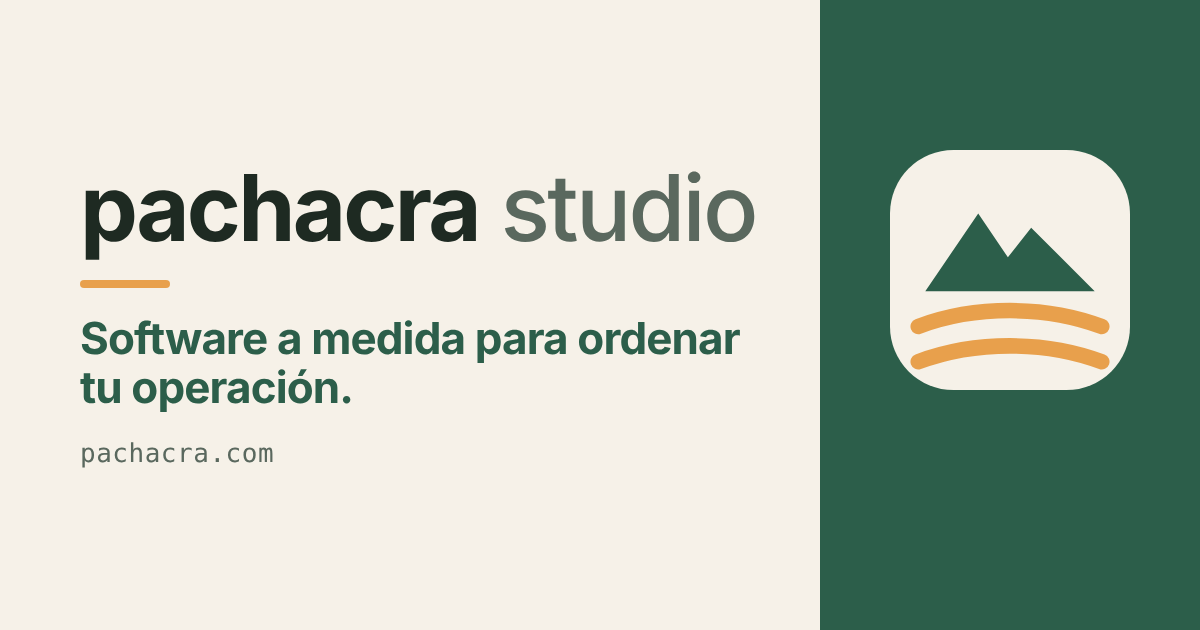
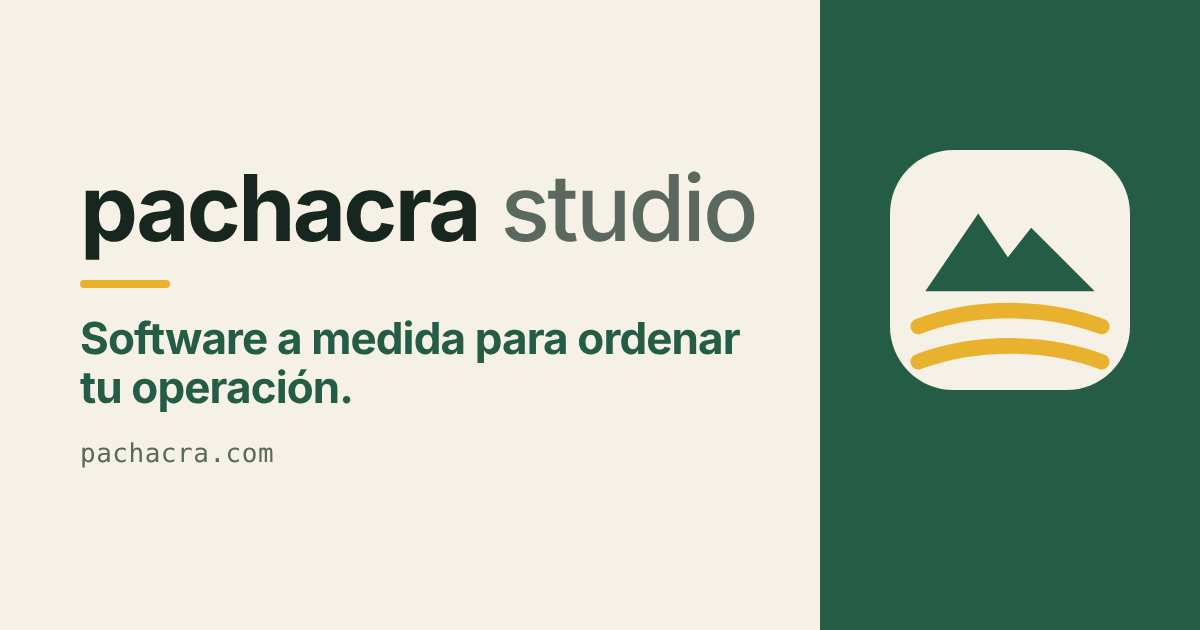
Add files via upload

Changed region(s): [[0.74, 0.4825, 0.925, 0.6032], [0.0617, 0.4222, 0.1542, 0.4825]]

diff --git a/index.html b/index.html
@@ -20,27 +20,27 @@
 <link rel="stylesheet" href="https://fonts.googleapis.com/css2?family=Bricolage+Grotesque:opsz,wght@12..96,500;12..96,700&family=Instrument+Sans:wght@400;500;600&family=IBM+Plex+Mono:wght@500&display=swap">
 <style>
 html{scroll-behavior:smooth}
-body{margin:0;background:#F6F1E8}
-a{color:#2C5E4A}a:hover{color:#1E4535}
+body{margin:0;background:#F6F1E6}
+a{color:#245C45}a:hover{color:#C23B2A}
 </style>
 </head>
 <body>
 
 
-<div style="background:#F6F1E8; color:#1E2A22; font-family:'Instrument Sans', system-ui, sans-serif; font-size:17px; line-height:1.55; width:100%">
+<div style="background:#F6F1E6; color:#17261F; font-family:'Instrument Sans', system-ui, sans-serif; font-size:17px; line-height:1.55; width:100%">
 
 <!-- NAV -->
 <header style="display:flex; flex-wrap:wrap; align-items:center; justify-content:space-between; gap:16px; width:100%; max-width:1160px; margin:0 auto; padding:20px 24px; box-sizing:border-box">
-<a href="#top" style="display:flex; align-items:center; gap:10px; text-decoration:none; color:#1E2A22">
-<svg width="34" height="34" viewBox="0 0 34 34" aria-hidden="true"><rect width="34" height="34" rx="9" fill="#2C5E4A"/><path d="M5 20 12.5 9l4.2 6.2L20 11l9 9z" fill="#F6F1E8"/><path d="M4 25c8-3 18-3 26 0M4 30c8-3 18-3 26 0" fill="none" stroke="#E8A04C" stroke-width="2.2" stroke-linecap="round"/></svg>
+<a href="#top" style="display:flex; align-items:center; gap:10px; text-decoration:none; color:#17261F">
+<svg width="34" height="34" viewBox="0 0 34 34" aria-hidden="true"><rect width="34" height="34" rx="9" fill="#245C45"/><path d="M5 20 12.5 9l4.2 6.2L20 11l9 9z" fill="#F6F1E6"/><path d="M4 25c8-3 18-3 26 0M4 30c8-3 18-3 26 0" fill="none" stroke="#E9B22E" stroke-width="2.2" stroke-linecap="round"/></svg>
 <span style="font-family:'Bricolage Grotesque', system-ui, sans-serif; font-weight:700; font-size:27px; letter-spacing:-0.02em; line-height:1">pachacra<span style="font-weight:500; color:#5A685E"> studio</span></span>
 </a>
 <nav style="display:flex; flex-wrap:wrap; align-items:center; gap:8px 24px">
-<a href="#soluciones" style="color:#1E2A22; text-decoration:none; font-weight:500; font-size:16px"><span data-k="navSol"></span></a>
-<a href="#proyectos" style="color:#1E2A22; text-decoration:none; font-weight:500; font-size:16px"><span data-k="navProj"></span></a>
-<a href="#proceso" style="color:#1E2A22; text-decoration:none; font-weight:500; font-size:16px"><span data-k="navHow"></span></a>
-<a href="#nosotros" style="color:#1E2A22; text-decoration:none; font-weight:500; font-size:16px"><span data-k="navAbout"></span></a>
-<a href="#contacto" style="color:#1E2A22; text-decoration:none; font-weight:500; font-size:16px"><span data-k="navContact"></span></a>
+<a href="#soluciones" style="color:#17261F; text-decoration:none; font-weight:500; font-size:16px"><span data-k="navSol"></span></a>
+<a href="#proyectos" style="color:#17261F; text-decoration:none; font-weight:500; font-size:16px"><span data-k="navProj"></span></a>
+<a href="#proceso" style="color:#17261F; text-decoration:none; font-weight:500; font-size:16px"><span data-k="navHow"></span></a>
+<a href="#nosotros" style="color:#17261F; text-decoration:none; font-weight:500; font-size:16px"><span data-k="navAbout"></span></a>
+<a href="#contacto" style="color:#17261F; text-decoration:none; font-weight:500; font-size:16px"><span data-k="navContact"></span></a>
 <div style="display:flex; gap:4px" role="group" aria-label="Idioma / Language">
 <button type="button" id="btn-es">ES</button>
 <button type="button" id="btn-en">EN</button>
@@ -51,12 +51,12 @@ a{color:#2C5E4A}a:hover{color:#1E4535}
 <!-- HERO -->
 <section id="top" style="width:100%; max-width:1160px; margin:0 auto; padding:48px 24px 80px; box-sizing:border-box; display:flex; flex-wrap:wrap; gap:56px; align-items:center">
 <div style="flex:1 1 480px; min-width:0; display:flex; flex-direction:column; gap:24px">
-<span style="font-family:'IBM Plex Mono', ui-monospace, monospace; font-weight:500; font-size:13px; letter-spacing:0.1em; text-transform:uppercase; color:#2C5E4A"><span data-k="eyebrow"></span></span>
+<span style="font-family:'IBM Plex Mono', ui-monospace, monospace; font-weight:500; font-size:13px; letter-spacing:0.1em; text-transform:uppercase; color:#245C45"><span data-k="eyebrow"></span></span>
 <h1 style="margin:0; font-family:'Bricolage Grotesque', system-ui, sans-serif; font-weight:700; font-size:clamp(38px, 5.4vw, 68px); line-height:1.02; letter-spacing:-0.03em; text-wrap:balance"><span data-k="h1"></span></h1>
 <p style="margin:0; max-width:540px; font-size:19px; color:#4B5A50"><span data-k="sub"></span></p>
 <div style="display:flex; flex-wrap:wrap; gap:12px; padding-top:8px">
-<a href="#contacto" style="display:inline-flex; align-items:center; min-height:48px; padding:0 24px; border-radius:12px; background:#2C5E4A; color:#FFFFFF; text-decoration:none; font-weight:600; font-size:16px"><span data-k="cta1"></span></a>
-<a href="#soluciones" style="display:inline-flex; align-items:center; min-height:48px; padding:0 24px; border-radius:12px; border:1.5px solid #1E2A22; color:#1E2A22; text-decoration:none; font-weight:600; font-size:16px"><span data-k="cta2"></span></a>
+<a href="#contacto" style="display:inline-flex; align-items:center; min-height:48px; padding:0 24px; border-radius:12px; background:#245C45; color:#FFFFFF; text-decoration:none; font-weight:600; font-size:16px"><span data-k="cta1"></span></a>
+<a href="#soluciones" style="display:inline-flex; align-items:center; min-height:48px; padding:0 24px; border-radius:12px; border:1.5px solid #17261F; color:#17261F; text-decoration:none; font-weight:600; font-size:16px"><span data-k="cta2"></span></a>
 </div>
 </div>
 
@@ -72,24 +72,24 @@ a{color:#2C5E4A}a:hover{color:#1E4535}
 
 <div style="background:#FFFFFF; border:1px solid #E0D8C6; border-radius:20px; padding:20px 24px 8px; box-shadow:0 18px 40px -24px rgba(12,43,43,0.35)">
 <div style="display:flex; align-items:center; gap:8px; padding-bottom:12px">
-<span style="width:10px; height:10px; border-radius:50%; background:#2C5E4A"></span>
-<span style="font-family:'IBM Plex Mono', ui-monospace, monospace; font-weight:500; font-size:12px; letter-spacing:0.1em; text-transform:uppercase; color:#2C5E4A"><span data-k="afterLabel"></span></span>
+<span style="width:10px; height:10px; border-radius:50%; background:#245C45"></span>
+<span style="font-family:'IBM Plex Mono', ui-monospace, monospace; font-weight:500; font-size:12px; letter-spacing:0.1em; text-transform:uppercase; color:#245C45"><span data-k="afterLabel"></span></span>
 </div>
 <div style="display:flex; align-items:center; justify-content:space-between; gap:12px; padding:14px 0; border-top:1px solid #E8E1D1">
 <div style="min-width:0"><div style="font-weight:600"><span data-k="r1a"></span></div><div style="font-size:14px; color:#5A685E"><span data-k="r1b"></span></div></div>
-<span style="flex:none; padding:4px 12px; border-radius:999px; background:#FCE8C3; color:#6B4300; font-size:14px; font-weight:600"><span data-k="r1s"></span></span>
+<span style="flex:none; padding:4px 12px; border-radius:999px; background:#FBEFC8; color:#6B4300; font-size:14px; font-weight:600"><span data-k="r1s"></span></span>
 </div>
 <div style="display:flex; align-items:center; justify-content:space-between; gap:12px; padding:14px 0; border-top:1px solid #E8E1D1">
 <div style="min-width:0"><div style="font-weight:600"><span data-k="r2a"></span></div><div style="font-size:14px; color:#5A685E"><span data-k="r2b"></span></div></div>
-<span style="flex:none; padding:4px 12px; border-radius:999px; background:#DDEBDD; color:#1E4535; font-size:14px; font-weight:600"><span data-k="r2s"></span></span>
+<span style="flex:none; padding:4px 12px; border-radius:999px; background:#DDEBDD; color:#194632; font-size:14px; font-weight:600"><span data-k="r2s"></span></span>
 </div>
 <div style="display:flex; align-items:center; justify-content:space-between; gap:12px; padding:14px 0; border-top:1px solid #E8E1D1">
 <div style="min-width:0"><div style="font-weight:600"><span data-k="r3a"></span></div><div style="font-size:14px; color:#5A685E"><span data-k="r3b"></span></div></div>
-<span style="flex:none; padding:4px 12px; border-radius:999px; background:#DDEBDD; color:#1E4535; font-size:14px; font-weight:600"><span data-k="r3s"></span></span>
+<span style="flex:none; padding:4px 12px; border-radius:999px; background:#DDEBDD; color:#194632; font-size:14px; font-weight:600"><span data-k="r3s"></span></span>
 </div>
 <div style="display:flex; align-items:center; justify-content:space-between; gap:12px; padding:14px 0; border-top:1px solid #E8E1D1">
 <div style="min-width:0"><div style="font-weight:600"><span data-k="r4a"></span></div><div style="font-size:14px; color:#5A685E"><span data-k="r4b"></span></div></div>
-<span style="flex:none; padding:4px 12px; border-radius:999px; background:#FCE8C3; color:#6B4300; font-size:14px; font-weight:600"><span data-k="r4s"></span></span>
+<span style="flex:none; padding:4px 12px; border-radius:999px; background:#FBEFC8; color:#6B4300; font-size:14px; font-weight:600"><span data-k="r4s"></span></span>
 </div>
 </div>
 <span style="font-size:13px; color:#5A685E; padding-left:4px"><span data-k="caption"></span></span>
@@ -99,7 +99,7 @@ a{color:#2C5E4A}a:hover{color:#1E4535}
 <!-- SOLUCIONES -->
 <section id="soluciones" style="width:100%; max-width:1160px; margin:0 auto; padding:24px 24px 96px; box-sizing:border-box; display:flex; flex-direction:column; gap:40px">
 <div style="display:flex; flex-direction:column; gap:12px; max-width:680px">
-<span style="font-family:'IBM Plex Mono', ui-monospace, monospace; font-weight:500; font-size:13px; letter-spacing:0.1em; text-transform:uppercase; color:#2C5E4A"><span data-k="solEyebrow"></span></span>
+<span style="font-family:'IBM Plex Mono', ui-monospace, monospace; font-weight:500; font-size:13px; letter-spacing:0.1em; text-transform:uppercase; color:#245C45"><span data-k="solEyebrow"></span></span>
 <h2 style="margin:0; font-family:'Bricolage Grotesque', system-ui, sans-serif; font-weight:700; font-size:clamp(30px, 3.8vw, 44px); line-height:1.08; letter-spacing:-0.025em; text-wrap:balance"><span data-k="solTitle"></span></h2>
 <p style="margin:0; font-size:18px; color:#4B5A50"><span data-k="solSub"></span></p>
 </div>
@@ -108,7 +108,7 @@ a{color:#2C5E4A}a:hover{color:#1E4535}
 
 <article style="background:#FFFFFF; border:1px solid #E0D8C6; border-radius:16px; padding:28px; display:flex; flex-direction:column; gap:14px; min-width:0">
 <div style="width:46px; height:46px; border-radius:12px; background:#DDEBDD; display:flex; align-items:center; justify-content:center">
-<svg width="24" height="24" viewBox="0 0 24 24" fill="none" stroke="#2C5E4A" stroke-width="1.8" stroke-linecap="round" stroke-linejoin="round" aria-hidden="true"><path d="M3 7h11v9H3z"/><path d="M14 10h4l3 3v3h-7z"/><circle cx="7" cy="17.5" r="1.8"/><circle cx="17" cy="17.5" r="1.8"/></svg>
+<svg width="24" height="24" viewBox="0 0 24 24" fill="none" stroke="#245C45" stroke-width="1.8" stroke-linecap="round" stroke-linejoin="round" aria-hidden="true"><path d="M3 7h11v9H3z"/><path d="M14 10h4l3 3v3h-7z"/><circle cx="7" cy="17.5" r="1.8"/><circle cx="17" cy="17.5" r="1.8"/></svg>
 </div>
 <span style="font-family:'IBM Plex Mono', ui-monospace, monospace; font-weight:500; font-size:12px; letter-spacing:0.1em; text-transform:uppercase; color:#5A685E"><span data-k="c1l"></span></span>
 <h3 style="margin:0; font-family:'Bricolage Grotesque', system-ui, sans-serif; font-weight:700; font-size:23px; line-height:1.2; letter-spacing:-0.015em"><span data-k="c1t"></span></h3>
@@ -117,7 +117,7 @@ a{color:#2C5E4A}a:hover{color:#1E4535}
 
 <article style="background:#FFFFFF; border:1px solid #E0D8C6; border-radius:16px; padding:28px; display:flex; flex-direction:column; gap:14px; min-width:0">
 <div style="width:46px; height:46px; border-radius:12px; background:#DDEBDD; display:flex; align-items:center; justify-content:center">
-<svg width="24" height="24" viewBox="0 0 24 24" fill="none" stroke="#2C5E4A" stroke-width="1.8" stroke-linecap="round" stroke-linejoin="round" aria-hidden="true"><circle cx="9" cy="8" r="3.5"/><path d="M2.5 20c.5-3.5 3.3-5.5 6.5-5.5s6 2 6.5 5.5"/><path d="M19 8v6M16 11h6"/></svg>
+<svg width="24" height="24" viewBox="0 0 24 24" fill="none" stroke="#245C45" stroke-width="1.8" stroke-linecap="round" stroke-linejoin="round" aria-hidden="true"><circle cx="9" cy="8" r="3.5"/><path d="M2.5 20c.5-3.5 3.3-5.5 6.5-5.5s6 2 6.5 5.5"/><path d="M19 8v6M16 11h6"/></svg>
 </div>
 <span style="font-family:'IBM Plex Mono', ui-monospace, monospace; font-weight:500; font-size:12px; letter-spacing:0.1em; text-transform:uppercase; color:#5A685E"><span data-k="c2l"></span></span>
 <h3 style="margin:0; font-family:'Bricolage Grotesque', system-ui, sans-serif; font-weight:700; font-size:23px; line-height:1.2; letter-spacing:-0.015em"><span data-k="c2t"></span></h3>
@@ -126,7 +126,7 @@ a{color:#2C5E4A}a:hover{color:#1E4535}
 
 <article style="background:#FFFFFF; border:1px solid #E0D8C6; border-radius:16px; padding:28px; display:flex; flex-direction:column; gap:14px; min-width:0">
 <div style="width:46px; height:46px; border-radius:12px; background:#DDEBDD; display:flex; align-items:center; justify-content:center">
-<svg width="24" height="24" viewBox="0 0 24 24" fill="none" stroke="#2C5E4A" stroke-width="1.8" stroke-linecap="round" stroke-linejoin="round" aria-hidden="true"><rect x="3" y="6" width="18" height="13" rx="2"/><path d="M3 10h18"/><circle cx="16.5" cy="14.5" r="1.2"/></svg>
+<svg width="24" height="24" viewBox="0 0 24 24" fill="none" stroke="#245C45" stroke-width="1.8" stroke-linecap="round" stroke-linejoin="round" aria-hidden="true"><rect x="3" y="6" width="18" height="13" rx="2"/><path d="M3 10h18"/><circle cx="16.5" cy="14.5" r="1.2"/></svg>
 </div>
 <span style="font-family:'IBM Plex Mono', ui-monospace, monospace; font-weight:500; font-size:12px; letter-spacing:0.1em; text-transform:uppercase; color:#5A685E"><span data-k="c3l"></span></span>
 <h3 style="margin:0; font-family:'Bricolage Grotesque', system-ui, sans-serif; font-weight:700; font-size:23px; line-height:1.2; letter-spacing:-0.015em"><span data-k="c3t"></span></h3>
@@ -135,7 +135,7 @@ a{color:#2C5E4A}a:hover{color:#1E4535}
 
 <article style="background:#FFFFFF; border:1px solid #E0D8C6; border-radius:16px; padding:28px; display:flex; flex-direction:column; gap:14px; min-width:0">
 <div style="width:46px; height:46px; border-radius:12px; background:#DDEBDD; display:flex; align-items:center; justify-content:center">
-<svg width="24" height="24" viewBox="0 0 24 24" fill="none" stroke="#2C5E4A" stroke-width="1.8" stroke-linecap="round" stroke-linejoin="round" aria-hidden="true"><path d="M6 3h12v18l-3-2-3 2-3-2-3 2z"/><path d="M9 8h6M9 12h6"/></svg>
+<svg width="24" height="24" viewBox="0 0 24 24" fill="none" stroke="#245C45" stroke-width="1.8" stroke-linecap="round" stroke-linejoin="round" aria-hidden="true"><path d="M6 3h12v18l-3-2-3 2-3-2-3 2z"/><path d="M9 8h6M9 12h6"/></svg>
 </div>
 <span style="font-family:'IBM Plex Mono', ui-monospace, monospace; font-weight:500; font-size:12px; letter-spacing:0.1em; text-transform:uppercase; color:#5A685E"><span data-k="c4l"></span></span>
 <h3 style="margin:0; font-family:'Bricolage Grotesque', system-ui, sans-serif; font-weight:700; font-size:23px; line-height:1.2; letter-spacing:-0.015em"><span data-k="c4t"></span></h3>
@@ -144,7 +144,7 @@ a{color:#2C5E4A}a:hover{color:#1E4535}
 
 <article style="background:#FFFFFF; border:1px solid #E0D8C6; border-radius:16px; padding:28px; display:flex; flex-direction:column; gap:14px; min-width:0">
 <div style="width:46px; height:46px; border-radius:12px; background:#DDEBDD; display:flex; align-items:center; justify-content:center">
-<svg width="24" height="24" viewBox="0 0 24 24" fill="none" stroke="#2C5E4A" stroke-width="1.8" stroke-linecap="round" stroke-linejoin="round" aria-hidden="true"><path d="M12 21s-6-5.6-6-10a6 6 0 0 1 12 0c0 4.4-6 10-6 10z"/><circle cx="12" cy="11" r="2.2"/></svg>
+<svg width="24" height="24" viewBox="0 0 24 24" fill="none" stroke="#245C45" stroke-width="1.8" stroke-linecap="round" stroke-linejoin="round" aria-hidden="true"><path d="M12 21s-6-5.6-6-10a6 6 0 0 1 12 0c0 4.4-6 10-6 10z"/><circle cx="12" cy="11" r="2.2"/></svg>
 </div>
 <span style="font-family:'IBM Plex Mono', ui-monospace, monospace; font-weight:500; font-size:12px; letter-spacing:0.1em; text-transform:uppercase; color:#5A685E"><span data-k="c5l"></span></span>
 <h3 style="margin:0; font-family:'Bricolage Grotesque', system-ui, sans-serif; font-weight:700; font-size:23px; line-height:1.2; letter-spacing:-0.015em"><span data-k="c5t"></span></h3>
@@ -153,7 +153,7 @@ a{color:#2C5E4A}a:hover{color:#1E4535}
 
 <article style="background:#FFFFFF; border:1px solid #E0D8C6; border-radius:16px; padding:28px; display:flex; flex-direction:column; gap:14px; min-width:0">
 <div style="width:46px; height:46px; border-radius:12px; background:#DDEBDD; display:flex; align-items:center; justify-content:center">
-<svg width="24" height="24" viewBox="0 0 24 24" fill="none" stroke="#2C5E4A" stroke-width="1.8" stroke-linecap="round" stroke-linejoin="round" aria-hidden="true"><rect x="3" y="3" width="8" height="8" rx="1.5"/><rect x="13" y="3" width="8" height="8" rx="1.5"/><rect x="3" y="13" width="8" height="8" rx="1.5"/><rect x="13" y="13" width="8" height="8" rx="1.5"/></svg>
+<svg width="24" height="24" viewBox="0 0 24 24" fill="none" stroke="#245C45" stroke-width="1.8" stroke-linecap="round" stroke-linejoin="round" aria-hidden="true"><rect x="3" y="3" width="8" height="8" rx="1.5"/><rect x="13" y="3" width="8" height="8" rx="1.5"/><rect x="3" y="13" width="8" height="8" rx="1.5"/><rect x="13" y="13" width="8" height="8" rx="1.5"/></svg>
 </div>
 <span style="font-family:'IBM Plex Mono', ui-monospace, monospace; font-weight:500; font-size:12px; letter-spacing:0.1em; text-transform:uppercase; color:#5A685E"><span data-k="c6l"></span></span>
 <h3 style="margin:0; font-family:'Bricolage Grotesque', system-ui, sans-serif; font-weight:700; font-size:23px; line-height:1.2; letter-spacing:-0.015em"><span data-k="c6t"></span></h3>
@@ -166,7 +166,7 @@ a{color:#2C5E4A}a:hover{color:#1E4535}
 <!-- PROYECTOS -->
 <section id="proyectos" style="width:100%; max-width:1160px; margin:0 auto; padding:88px 24px 24px; box-sizing:border-box; display:flex; flex-direction:column; gap:40px">
 <div style="display:flex; flex-direction:column; gap:12px; max-width:720px">
-<span style="font-family:'IBM Plex Mono', ui-monospace, monospace; font-weight:500; font-size:13px; letter-spacing:0.1em; text-transform:uppercase; color:#2C5E4A"><span data-k="projEyebrow"></span></span>
+<span style="font-family:'IBM Plex Mono', ui-monospace, monospace; font-weight:500; font-size:13px; letter-spacing:0.1em; text-transform:uppercase; color:#245C45"><span data-k="projEyebrow"></span></span>
 <h2 style="margin:0; font-family:'Bricolage Grotesque', system-ui, sans-serif; font-weight:700; font-size:clamp(30px, 3.8vw, 44px); line-height:1.08; letter-spacing:-0.025em; text-wrap:balance"><span data-k="projTitle"></span></h2>
 <p style="margin:0; font-size:18px; color:#4B5A50"><span data-k="projSub"></span></p>
 </div>
@@ -175,54 +175,54 @@ a{color:#2C5E4A}a:hover{color:#1E4535}
 <span style="font-family:'IBM Plex Mono', ui-monospace, monospace; font-weight:500; font-size:12px; letter-spacing:0.1em; text-transform:uppercase; color:#5A685E"><span data-k="p1l"></span></span>
 <h3 style="margin:0; font-family:'Bricolage Grotesque', system-ui, sans-serif; font-weight:700; font-size:24px; line-height:1.2; letter-spacing:-0.015em"><span data-k="p1t"></span></h3>
 <p style="margin:0; color:#4B5A50"><span data-k="p1d"></span></p>
-<p style="margin:auto 0 0; padding-top:14px; border-top:1px solid #ECE5D6; font-family:'IBM Plex Mono', ui-monospace, monospace; font-weight:500; font-size:13px; line-height:1.6; color:#2C5E4A"><span data-k="p1g"></span></p>
+<p style="margin:auto 0 0; padding-top:14px; border-top:1px solid #ECE5D6; font-family:'IBM Plex Mono', ui-monospace, monospace; font-weight:500; font-size:13px; line-height:1.6; color:#245C45"><span data-k="p1g"></span></p>
 </article>
 <article style="background:#FFFFFF; border:1px solid #E0D8C6; border-radius:20px; padding:28px; display:flex; flex-direction:column; gap:14px; min-width:0">
 <span style="font-family:'IBM Plex Mono', ui-monospace, monospace; font-weight:500; font-size:12px; letter-spacing:0.1em; text-transform:uppercase; color:#5A685E"><span data-k="p2l"></span></span>
 <h3 style="margin:0; font-family:'Bricolage Grotesque', system-ui, sans-serif; font-weight:700; font-size:24px; line-height:1.2; letter-spacing:-0.015em"><span data-k="p2t"></span></h3>
 <p style="margin:0; color:#4B5A50"><span data-k="p2d"></span></p>
-<p style="margin:auto 0 0; padding-top:14px; border-top:1px solid #ECE5D6; font-family:'IBM Plex Mono', ui-monospace, monospace; font-weight:500; font-size:13px; line-height:1.6; color:#2C5E4A"><span data-k="p2g"></span></p>
+<p style="margin:auto 0 0; padding-top:14px; border-top:1px solid #ECE5D6; font-family:'IBM Plex Mono', ui-monospace, monospace; font-weight:500; font-size:13px; line-height:1.6; color:#245C45"><span data-k="p2g"></span></p>
 </article>
 <article style="background:#FFFFFF; border:1px solid #E0D8C6; border-radius:20px; padding:28px; display:flex; flex-direction:column; gap:14px; min-width:0">
 <span style="font-family:'IBM Plex Mono', ui-monospace, monospace; font-weight:500; font-size:12px; letter-spacing:0.1em; text-transform:uppercase; color:#5A685E"><span data-k="p3l"></span></span>
 <h3 style="margin:0; font-family:'Bricolage Grotesque', system-ui, sans-serif; font-weight:700; font-size:24px; line-height:1.2; letter-spacing:-0.015em"><span data-k="p3t"></span></h3>
 <p style="margin:0; color:#4B5A50"><span data-k="p3d"></span></p>
-<p style="margin:auto 0 0; padding-top:14px; border-top:1px solid #ECE5D6; font-family:'IBM Plex Mono', ui-monospace, monospace; font-weight:500; font-size:13px; line-height:1.6; color:#2C5E4A"><span data-k="p3g"></span></p>
+<p style="margin:auto 0 0; padding-top:14px; border-top:1px solid #ECE5D6; font-family:'IBM Plex Mono', ui-monospace, monospace; font-weight:500; font-size:13px; line-height:1.6; color:#245C45"><span data-k="p3g"></span></p>
 </article>
 <article style="background:#FFFFFF; border:1px solid #E0D8C6; border-radius:20px; padding:28px; display:flex; flex-direction:column; gap:14px; min-width:0">
 <span style="font-family:'IBM Plex Mono', ui-monospace, monospace; font-weight:500; font-size:12px; letter-spacing:0.1em; text-transform:uppercase; color:#5A685E"><span data-k="p4l"></span></span>
 <h3 style="margin:0; font-family:'Bricolage Grotesque', system-ui, sans-serif; font-weight:700; font-size:24px; line-height:1.2; letter-spacing:-0.015em"><span data-k="p4t"></span></h3>
 <p style="margin:0; color:#4B5A50"><span data-k="p4d"></span></p>
-<p style="margin:auto 0 0; padding-top:14px; border-top:1px solid #ECE5D6; font-family:'IBM Plex Mono', ui-monospace, monospace; font-weight:500; font-size:13px; line-height:1.6; color:#2C5E4A"><span data-k="p4g"></span></p>
+<p style="margin:auto 0 0; padding-top:14px; border-top:1px solid #ECE5D6; font-family:'IBM Plex Mono', ui-monospace, monospace; font-weight:500; font-size:13px; line-height:1.6; color:#245C45"><span data-k="p4g"></span></p>
 </article>
 </div>
 </section>
 
 <!-- PROCESO -->
-<section id="proceso" style="background:#1E2A22; color:#F6F1E8">
+<section id="proceso" style="background:#17261F; color:#F6F1E6">
 <div style="width:100%; max-width:1160px; margin:0 auto; padding:80px 24px; box-sizing:border-box; display:flex; flex-direction:column; gap:48px">
 <div style="display:flex; flex-direction:column; gap:12px">
-<span style="font-family:'IBM Plex Mono', ui-monospace, monospace; font-weight:500; font-size:13px; letter-spacing:0.1em; text-transform:uppercase; color:#E8A04C"><span data-k="howEyebrow"></span></span>
+<span style="font-family:'IBM Plex Mono', ui-monospace, monospace; font-weight:500; font-size:13px; letter-spacing:0.1em; text-transform:uppercase; color:#E9B22E"><span data-k="howEyebrow"></span></span>
 <h2 style="margin:0; font-family:'Bricolage Grotesque', system-ui, sans-serif; font-weight:700; font-size:clamp(30px, 3.8vw, 44px); line-height:1.08; letter-spacing:-0.025em; text-wrap:balance"><span data-k="howTitle"></span></h2>
 </div>
 <div style="display:grid; grid-template-columns:repeat(auto-fit, minmax(220px, 1fr)); gap:32px">
 <div style="border-top:1px solid #4A5C50; padding-top:20px; display:flex; flex-direction:column; gap:10px; min-width:0">
-<span style="font-family:'IBM Plex Mono', ui-monospace, monospace; font-weight:500; font-size:15px; color:#E8A04C">1</span>
+<span style="font-family:'IBM Plex Mono', ui-monospace, monospace; font-weight:500; font-size:15px; color:#E9B22E">1</span>
 <h3 style="margin:0; font-family:'Bricolage Grotesque', system-ui, sans-serif; font-weight:700; font-size:22px; letter-spacing:-0.015em"><span data-k="s1t"></span></h3>
 <p style="margin:0; color:#C9D2C4"><span data-k="s1d"></span></p>
 </div>
 <div style="border-top:1px solid #4A5C50; padding-top:20px; display:flex; flex-direction:column; gap:10px; min-width:0">
-<span style="font-family:'IBM Plex Mono', ui-monospace, monospace; font-weight:500; font-size:15px; color:#E8A04C">2</span>
+<span style="font-family:'IBM Plex Mono', ui-monospace, monospace; font-weight:500; font-size:15px; color:#E9B22E">2</span>
 <h3 style="margin:0; font-family:'Bricolage Grotesque', system-ui, sans-serif; font-weight:700; font-size:22px; letter-spacing:-0.015em"><span data-k="s2t"></span></h3>
 <p style="margin:0; color:#C9D2C4"><span data-k="s2d"></span></p>
 </div>
 <div style="border-top:1px solid #4A5C50; padding-top:20px; display:flex; flex-direction:column; gap:10px; min-width:0">
-<span style="font-family:'IBM Plex Mono', ui-monospace, monospace; font-weight:500; font-size:15px; color:#E8A04C">3</span>
+<span style="font-family:'IBM Plex Mono', ui-monospace, monospace; font-weight:500; font-size:15px; color:#E9B22E">3</span>
 <h3 style="margin:0; font-family:'Bricolage Grotesque', system-ui, sans-serif; font-weight:700; font-size:22px; letter-spacing:-0.015em"><span data-k="s3t"></span></h3>
 <p style="margin:0; color:#C9D2C4"><span data-k="s3d"></span></p>
 </div>
 <div style="border-top:1px solid #4A5C50; padding-top:20px; display:flex; flex-direction:column; gap:10px; min-width:0">
-<span style="font-family:'IBM Plex Mono', ui-monospace, monospace; font-weight:500; font-size:15px; color:#E8A04C">4</span>
+<span style="font-family:'IBM Plex Mono', ui-monospace, monospace; font-weight:500; font-size:15px; color:#E9B22E">4</span>
 <h3 style="margin:0; font-family:'Bricolage Grotesque', system-ui, sans-serif; font-weight:700; font-size:22px; letter-spacing:-0.015em"><span data-k="s4t"></span></h3>
 <p style="margin:0; color:#C9D2C4"><span data-k="s4d"></span></p>
 </div>
@@ -233,7 +233,7 @@ a{color:#2C5E4A}a:hover{color:#1E4535}
 <!-- NOSOTROS -->
 <section id="nosotros" style="width:100%; max-width:1160px; margin:0 auto; padding:88px 24px 24px; box-sizing:border-box; display:flex; flex-wrap:wrap; gap:40px 56px; align-items:flex-start">
 <div style="flex:1 1 440px; min-width:0; display:flex; flex-direction:column; gap:16px">
-<span style="font-family:'IBM Plex Mono', ui-monospace, monospace; font-weight:500; font-size:13px; letter-spacing:0.1em; text-transform:uppercase; color:#2C5E4A"><span data-k="aboutEyebrow"></span></span>
+<span style="font-family:'IBM Plex Mono', ui-monospace, monospace; font-weight:500; font-size:13px; letter-spacing:0.1em; text-transform:uppercase; color:#245C45"><span data-k="aboutEyebrow"></span></span>
 <h2 style="margin:0; font-family:'Bricolage Grotesque', system-ui, sans-serif; font-weight:700; font-size:clamp(30px, 3.8vw, 44px); line-height:1.08; letter-spacing:-0.025em; text-wrap:balance"><span data-k="aboutTitle"></span></h2>
 <p style="margin:0; font-size:18px; color:#4B5A50"><span data-k="aboutP1"></span></p>
 <p style="margin:0; font-size:18px; color:#4B5A50"><span data-k="aboutP2"></span></p>
@@ -241,12 +241,12 @@ a{color:#2C5E4A}a:hover{color:#1E4535}
 <div style="flex:1 1 340px; min-width:0; display:flex; flex-direction:column; gap:16px">
 <div style="background:#FFFFFF; border:1px solid #E0D8C6; border-radius:16px; padding:24px 28px; display:flex; flex-direction:column; gap:8px">
 <span style="font-family:'IBM Plex Mono', ui-monospace, monospace; font-weight:500; font-size:12px; letter-spacing:0.1em; text-transform:uppercase; color:#5A685E"><span data-k="o1p"></span></span>
-<h3 style="margin:0; font-family:'Bricolage Grotesque', system-ui, sans-serif; font-weight:700; font-size:26px; letter-spacing:-0.015em; color:#2C5E4A"><span data-k="o1k"></span></h3>
+<h3 style="margin:0; font-family:'Bricolage Grotesque', system-ui, sans-serif; font-weight:700; font-size:26px; letter-spacing:-0.015em; color:#245C45"><span data-k="o1k"></span></h3>
 <p style="margin:0; color:#4B5A50"><span data-k="o1d"></span></p>
 </div>
 <div style="background:#FFFFFF; border:1px solid #E0D8C6; border-radius:16px; padding:24px 28px; display:flex; flex-direction:column; gap:8px">
 <span style="font-family:'IBM Plex Mono', ui-monospace, monospace; font-weight:500; font-size:12px; letter-spacing:0.1em; text-transform:uppercase; color:#5A685E"><span data-k="o2p"></span></span>
-<h3 style="margin:0; font-family:'Bricolage Grotesque', system-ui, sans-serif; font-weight:700; font-size:26px; letter-spacing:-0.015em; color:#2C5E4A"><span data-k="o2k"></span></h3>
+<h3 style="margin:0; font-family:'Bricolage Grotesque', system-ui, sans-serif; font-weight:700; font-size:26px; letter-spacing:-0.015em; color:#245C45"><span data-k="o2k"></span></h3>
 <p style="margin:0; color:#4B5A50"><span data-k="o2d"></span></p>
 </div>
 </div>
@@ -271,36 +271,36 @@ a{color:#2C5E4A}a:hover{color:#1E4535}
 <!-- FAQ -->
 <section id="faq" style="width:100%; max-width:1160px; margin:0 auto; padding:72px 24px 24px; box-sizing:border-box; display:flex; flex-wrap:wrap; gap:32px 56px; align-items:flex-start">
 <div style="flex:1 1 300px; min-width:0; display:flex; flex-direction:column; gap:12px">
-<span style="font-family:'IBM Plex Mono', ui-monospace, monospace; font-weight:500; font-size:13px; letter-spacing:0.1em; text-transform:uppercase; color:#2C5E4A"><span data-k="faqEyebrow"></span></span>
+<span style="font-family:'IBM Plex Mono', ui-monospace, monospace; font-weight:500; font-size:13px; letter-spacing:0.1em; text-transform:uppercase; color:#245C45"><span data-k="faqEyebrow"></span></span>
 <h2 style="margin:0; font-family:'Bricolage Grotesque', system-ui, sans-serif; font-weight:700; font-size:clamp(30px, 3.8vw, 44px); line-height:1.08; letter-spacing:-0.025em; text-wrap:balance"><span data-k="faqTitle"></span></h2>
 </div>
 <div style="flex:2 1 460px; min-width:0; border-top:1px solid #E0D8C6">
 <details style="border-bottom:1px solid #E0D8C6; padding:4px 0">
-<summary style="cursor:pointer; list-style:none; display:flex; justify-content:space-between; align-items:center; gap:16px; min-height:56px; padding:12px 0; font-weight:600; font-size:18px; color:#1E2A22"><span data-k="f1q"></span><span class="faq-plus" aria-hidden="true" style="flex:none; font-family:'IBM Plex Mono', ui-monospace, monospace; font-size:22px; color:#2C5E4A">+</span></summary>
+<summary style="cursor:pointer; list-style:none; display:flex; justify-content:space-between; align-items:center; gap:16px; min-height:56px; padding:12px 0; font-weight:600; font-size:18px; color:#17261F"><span data-k="f1q"></span><span class="faq-plus" aria-hidden="true" style="flex:none; font-family:'IBM Plex Mono', ui-monospace, monospace; font-size:22px; color:#245C45">+</span></summary>
 <p style="margin:0 0 18px; max-width:760px; font-size:17px; color:#4B5A50"><span data-k="f1a"></span></p>
 </details>
 <details style="border-bottom:1px solid #E0D8C6; padding:4px 0">
-<summary style="cursor:pointer; list-style:none; display:flex; justify-content:space-between; align-items:center; gap:16px; min-height:56px; padding:12px 0; font-weight:600; font-size:18px; color:#1E2A22"><span data-k="f2q"></span><span class="faq-plus" aria-hidden="true" style="flex:none; font-family:'IBM Plex Mono', ui-monospace, monospace; font-size:22px; color:#2C5E4A">+</span></summary>
+<summary style="cursor:pointer; list-style:none; display:flex; justify-content:space-between; align-items:center; gap:16px; min-height:56px; padding:12px 0; font-weight:600; font-size:18px; color:#17261F"><span data-k="f2q"></span><span class="faq-plus" aria-hidden="true" style="flex:none; font-family:'IBM Plex Mono', ui-monospace, monospace; font-size:22px; color:#245C45">+</span></summary>
 <p style="margin:0 0 18px; max-width:760px; font-size:17px; color:#4B5A50"><span data-k="f2a"></span></p>
 </details>
 <details style="border-bottom:1px solid #E0D8C6; padding:4px 0">
-<summary style="cursor:pointer; list-style:none; display:flex; justify-content:space-between; align-items:center; gap:16px; min-height:56px; padding:12px 0; font-weight:600; font-size:18px; color:#1E2A22"><span data-k="f3q"></span><span class="faq-plus" aria-hidden="true" style="flex:none; font-family:'IBM Plex Mono', ui-monospace, monospace; font-size:22px; color:#2C5E4A">+</span></summary>
+<summary style="cursor:pointer; list-style:none; display:flex; justify-content:space-between; align-items:center; gap:16px; min-height:56px; padding:12px 0; font-weight:600; font-size:18px; color:#17261F"><span data-k="f3q"></span><span class="faq-plus" aria-hidden="true" style="flex:none; font-family:'IBM Plex Mono', ui-monospace, monospace; font-size:22px; color:#245C45">+</span></summary>
 <p style="margin:0 0 18px; max-width:760px; font-size:17px; color:#4B5A50"><span data-k="f3a"></span></p>
 </details>
 <details style="border-bottom:1px solid #E0D8C6; padding:4px 0">
-<summary style="cursor:pointer; list-style:none; display:flex; justify-content:space-between; align-items:center; gap:16px; min-height:56px; padding:12px 0; font-weight:600; font-size:18px; color:#1E2A22"><span data-k="f4q"></span><span class="faq-plus" aria-hidden="true" style="flex:none; font-family:'IBM Plex Mono', ui-monospace, monospace; font-size:22px; color:#2C5E4A">+</span></summary>
+<summary style="cursor:pointer; list-style:none; display:flex; justify-content:space-between; align-items:center; gap:16px; min-height:56px; padding:12px 0; font-weight:600; font-size:18px; color:#17261F"><span data-k="f4q"></span><span class="faq-plus" aria-hidden="true" style="flex:none; font-family:'IBM Plex Mono', ui-monospace, monospace; font-size:22px; color:#245C45">+</span></summary>
 <p style="margin:0 0 18px; max-width:760px; font-size:17px; color:#4B5A50"><span data-k="f4a"></span></p>
 </details>
 <details style="border-bottom:1px solid #E0D8C6; padding:4px 0">
-<summary style="cursor:pointer; list-style:none; display:flex; justify-content:space-between; align-items:center; gap:16px; min-height:56px; padding:12px 0; font-weight:600; font-size:18px; color:#1E2A22"><span data-k="f5q"></span><span class="faq-plus" aria-hidden="true" style="flex:none; font-family:'IBM Plex Mono', ui-monospace, monospace; font-size:22px; color:#2C5E4A">+</span></summary>
+<summary style="cursor:pointer; list-style:none; display:flex; justify-content:space-between; align-items:center; gap:16px; min-height:56px; padding:12px 0; font-weight:600; font-size:18px; color:#17261F"><span data-k="f5q"></span><span class="faq-plus" aria-hidden="true" style="flex:none; font-family:'IBM Plex Mono', ui-monospace, monospace; font-size:22px; color:#245C45">+</span></summary>
 <p style="margin:0 0 18px; max-width:760px; font-size:17px; color:#4B5A50"><span data-k="f5a"></span></p>
 </details>
 <details style="border-bottom:1px solid #E0D8C6; padding:4px 0">
-<summary style="cursor:pointer; list-style:none; display:flex; justify-content:space-between; align-items:center; gap:16px; min-height:56px; padding:12px 0; font-weight:600; font-size:18px; color:#1E2A22"><span data-k="f6q"></span><span class="faq-plus" aria-hidden="true" style="flex:none; font-family:'IBM Plex Mono', ui-monospace, monospace; font-size:22px; color:#2C5E4A">+</span></summary>
+<summary style="cursor:pointer; list-style:none; display:flex; justify-content:space-between; align-items:center; gap:16px; min-height:56px; padding:12px 0; font-weight:600; font-size:18px; color:#17261F"><span data-k="f6q"></span><span class="faq-plus" aria-hidden="true" style="flex:none; font-family:'IBM Plex Mono', ui-monospace, monospace; font-size:22px; color:#245C45">+</span></summary>
 <p style="margin:0 0 18px; max-width:760px; font-size:17px; color:#4B5A50"><span data-k="f6a"></span></p>
 </details>
 <details style="border-bottom:1px solid #E0D8C6; padding:4px 0">
-<summary style="cursor:pointer; list-style:none; display:flex; justify-content:space-between; align-items:center; gap:16px; min-height:56px; padding:12px 0; font-weight:600; font-size:18px; color:#1E2A22"><span data-k="f7q"></span><span class="faq-plus" aria-hidden="true" style="flex:none; font-family:'IBM Plex Mono', ui-monospace, monospace; font-size:22px; color:#2C5E4A">+</span></summary>
+<summary style="cursor:pointer; list-style:none; display:flex; justify-content:space-between; align-items:center; gap:16px; min-height:56px; padding:12px 0; font-weight:600; font-size:18px; color:#17261F"><span data-k="f7q"></span><span class="faq-plus" aria-hidden="true" style="flex:none; font-family:'IBM Plex Mono', ui-monospace, monospace; font-size:22px; color:#245C45">+</span></summary>
 <p style="margin:0 0 18px; max-width:760px; font-size:17px; color:#4B5A50"><span data-k="f7a"></span></p>
 </details>
 </div>
@@ -309,13 +309,13 @@ a{color:#2C5E4A}a:hover{color:#1E4535}
 
 <!-- CONTACTO -->
 <section id="contacto" style="width:100%; max-width:1160px; margin:0 auto; padding:40px 24px 64px; box-sizing:border-box">
-<div style="background:#2C5E4A; color:#FFFFFF; border-radius:28px; padding:clamp(28px, 5vw, 56px); display:flex; flex-wrap:wrap; gap:32px 56px; align-items:center; justify-content:space-between">
+<div style="background:#245C45; color:#FFFFFF; border-radius:28px; padding:clamp(28px, 5vw, 56px); display:flex; flex-wrap:wrap; gap:32px 56px; align-items:center; justify-content:space-between">
 <div style="flex:1 1 360px; min-width:0; display:flex; flex-direction:column; gap:14px">
 <h2 style="margin:0; font-family:'Bricolage Grotesque', system-ui, sans-serif; font-weight:700; font-size:clamp(30px, 3.8vw, 44px); line-height:1.08; letter-spacing:-0.025em; text-wrap:balance"><span data-k="ctaTitle"></span></h2>
 <p style="margin:0; font-size:18px; color:#E1EEDF"><span data-k="ctaSub"></span></p>
 </div>
 <div style="flex:1 1 300px; min-width:0; display:flex; flex-direction:column; gap:16px; align-items:flex-start">
-<a id="wa-btn" href="https://wa.me/5491170190079" target="_blank" rel="noopener" style="display:inline-flex; align-items:center; gap:10px; min-height:52px; padding:0 28px; border-radius:12px; background:#E8A04C; color:#2B1B00; text-decoration:none; font-weight:600; font-size:17px"><svg width="22" height="22" viewBox="0 0 24 24" fill="currentColor" aria-hidden="true"><path d="M12 2a10 10 0 0 0-8.6 15.1L2 22l5-1.3A10 10 0 1 0 12 2zm0 1.8a8.2 8.2 0 1 1-4.3 15.2l-.3-.2-3 .8.8-2.9-.2-.3A8.2 8.2 0 0 1 12 3.8zM8.6 7.3c-.2 0-.5.1-.7.4-.3.3-1 1-1 2.4s1 2.7 1.200 2.900c.1.200 2 3.100 4.900 4.300 2.400 1 2.900.8 3.400.7.600-.1 1.700-.7 1.900-1.400.2-.7.2-1.200.2-1.400l-.5-.3-1.800-.9c-.3-.1-.5-.1-.7.1l-.8 1c-.1.200-.3.200-.6.100-.3-.2-1.100-.4-2.100-1.300-.8-.7-1.300-1.500-1.500-1.800-.2-.3 0-.4.100-.6l.4-.5.3-.4v-.5l-.9-2.100c-.2-.5-.5-.5-.7-.5z"/></svg><span data-k="waBtn"></span></a>
+<a id="wa-btn" href="https://wa.me/5491170190079" target="_blank" rel="noopener" style="display:inline-flex; align-items:center; gap:10px; min-height:52px; padding:0 28px; border-radius:12px; background:#E9B22E; color:#2B1B00; text-decoration:none; font-weight:600; font-size:17px"><svg width="22" height="22" viewBox="0 0 24 24" fill="currentColor" aria-hidden="true"><path d="M12 2a10 10 0 0 0-8.6 15.1L2 22l5-1.3A10 10 0 1 0 12 2zm0 1.8a8.2 8.2 0 1 1-4.3 15.2l-.3-.2-3 .8.8-2.9-.2-.3A8.2 8.2 0 0 1 12 3.8zM8.6 7.3c-.2 0-.5.1-.7.4-.3.3-1 1-1 2.4s1 2.7 1.200 2.900c.1.200 2 3.100 4.900 4.300 2.400 1 2.900.8 3.400.7.600-.1 1.700-.7 1.900-1.400.2-.7.2-1.200.2-1.400l-.5-.3-1.800-.9c-.3-.1-.5-.1-.7.1l-.8 1c-.1.200-.3.200-.6.100-.3-.2-1.100-.4-2.100-1.300-.8-.7-1.300-1.500-1.500-1.800-.2-.3 0-.4.100-.6l.4-.5.3-.4v-.5l-.9-2.100c-.2-.5-.5-.5-.7-.5z"/></svg><span data-k="waBtn"></span></a>
 <a href="mailto:hola@pachacra.com" style="display:inline-flex; align-items:center; min-height:48px; padding:0 24px; border-radius:12px; border:1.5px solid #E1EEDF; color:#FFFFFF; text-decoration:none; font-weight:600; font-size:16px"><span data-k="ctaBtn"></span></a>
 <div style="display:flex; flex-direction:column; gap:6px; font-family:'IBM Plex Mono', ui-monospace, monospace; font-weight:500; font-size:15px">
 <span><span data-k="mailLabel"></span>: hola@pachacra.com</span>
@@ -440,9 +440,9 @@ const dict = {
         footer: "© 2026 Pachacra Studio · Made in Argentina · Español / English"
       }
     };
-const base = "border:1px solid #2C5E4A;border-radius:999px;min-width:44px;min-height:44px;padding:0 14px;font:600 14px 'Instrument Sans',system-ui,sans-serif;cursor:pointer;";
-const on = "background:#2C5E4A;color:#FFFFFF;";
-const off = "background:transparent;color:#1E2A22;";
+const base = "border:1px solid #245C45;border-radius:999px;min-width:44px;min-height:44px;padding:0 14px;font:600 14px 'Instrument Sans',system-ui,sans-serif;cursor:pointer;";
+const on = "background:#245C45;color:#FFFFFF;";
+const off = "background:transparent;color:#17261F;";
 function setLang(lang){
   const t = dict[lang];
   document.documentElement.lang = lang;
